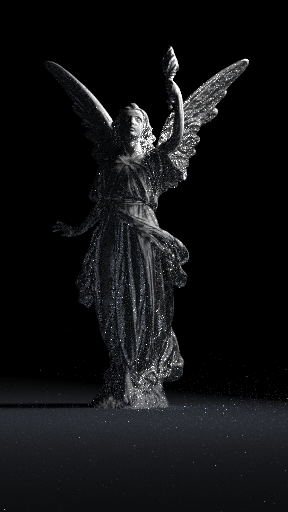
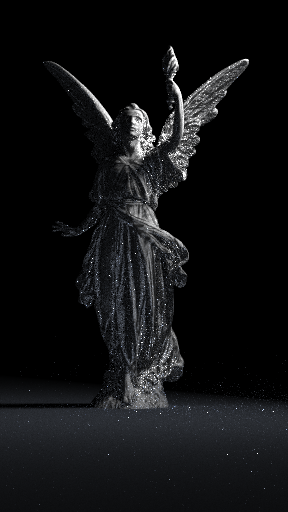
Fixes

diff --git a/core/src/randomizers/randomize.h b/core/src/randomizers/randomize.h
@@ -22,23 +22,47 @@ const std::string DefaultRNGSeed = "ASDF";
  *
  * Use the class `RandomGenerator` instead.
  */
+
+
+
 template<template<class> class Distributor, class Type, class RNG>
-class generalizedRandomGenerator
-{
+class generalizedRandomGenerator {
 private:
+
     const std::string m_randomStringChars = "0123456789abcdefghijklmnopqrstuvwxyzABCDEFGHIJKLMNOPQRSTUVWXYZ";
 
-    // Data
+
     Distributor<Type> m_rng_distribution;
     std::seed_seq m_seed;
     RNG m_rng;
 
 public:
-    explicit generalizedRandomGenerator(const std::string &rng_seed, int type) noexcept :
-        m_rng_distribution(0, 1),
+    explicit generalizedRandomGenerator(const std::string& rng_seed, Type dist_min = 0, Type dist_max = 1) noexcept :
+        m_rng_distribution(dist_min, dist_max),
         m_seed(rng_seed.begin(), rng_seed.end()),
         m_rng(m_seed)
     { }
+
+
+
+
+//template<template<class> class Distributor, class Type, class RNG>
+//class generalizedRandomGenerator
+//{
+//private:
+//    const std::string m_randomStringChars = "0123456789abcdefghijklmnopqrstuvwxyzABCDEFGHIJKLMNOPQRSTUVWXYZ";
+//
+//    // Data
+//    Distributor<Type> m_rng_distribution;
+//    std::seed_seq m_seed;
+//    RNG m_rng;
+//
+//public:
+//    explicit generalizedRandomGenerator(const std::string &rng_seed, int type) noexcept :
+//        m_rng_distribution(0, 1),
+//        m_seed(rng_seed.begin(), rng_seed.end()),
+//        m_rng(m_seed)
+//    { }
 
     inline Type get_real() noexcept
     {
@@ -212,28 +236,63 @@ public:
 /*!
  * The random generator that should actually be used by the app in general places.
  */
-class randomizer final : public generalizedRandomGenerator<RNG_DISTRIBUTION, double, RNG_ENGINE>
+//class randomizer final : public generalizedRandomGenerator<RNG_DISTRIBUTION, double, RNG_ENGINE>
+//{
+//public:
+//    explicit randomizer(int type) : generalizedRandomGenerator(DefaultRNGSeed, type)
+//    {
+//        if (type == 0)
+//        {
+//            // use RNG_ENGINE std::mt19937
+//        }
+//        else if (type == 1)
+//        {
+//            // use RNG_ENGINE std::minstd_rand
+//        }
+//        else
+//        {
+//            // use RNG_ENGINE pcg32
+//        }
+//    }
+//
+//    explicit randomizer(const std::string& rng_seed, int type) : generalizedRandomGenerator(rng_seed, type)
+//    {
+//    }
+//
+//
+//};
+
+
+class randomizer : public generalizedRandomGenerator<std::uniform_real_distribution, double, std::mt19937>
 {
 public:
-    explicit randomizer(int type) : generalizedRandomGenerator(DefaultRNGSeed, type)
+    explicit randomizer(int type, const std::string& rng_seed = DefaultRNGSeed, double dist_min = 0, double dist_max = 1) :
+        generalizedRandomGenerator<std::uniform_real_distribution, double, std::mt19937>(rng_seed, dist_min, dist_max)
     {
-        if (type == 0)
+
+        switch (type)
         {
-            // use RNG_ENGINE std::mt19937
-        }
-        else if (type == 1)
-        {
-            // use RNG_ENGINE std::minstd_rand
-        }
-        else
-        {
-            // use RNG_ENGINE pcg32
+            case 1:
+                new (this) generalizedRandomGenerator<std::uniform_real_distribution, double, std::mt19937>(rng_seed, dist_min, dist_max);
+                break;
+            case 2:
+                new (this) generalizedRandomGenerator<std::uniform_real_distribution, double, std::minstd_rand>(rng_seed, dist_min, dist_max);
+                break;
+            case 3:
+                new (this) generalizedRandomGenerator<std::uniform_real_distribution, double, pcg32>(rng_seed, dist_min, dist_max);
+                break;
+            default:
+                new (this) generalizedRandomGenerator<std::uniform_real_distribution, double, std::mt19937>(rng_seed, dist_min, dist_max);
+                break;
         }
     }
 
-    explicit randomizer(const std::string& rng_seed, int type) : generalizedRandomGenerator(rng_seed, type)
-    {
-    }
+    //double get_real() noexcept {
+    //    return generalizedRandomGenerator<std::uniform_real_distribution, double, RNG_ENGINE_1>::get_real();
+    //}
 
-
+    //double get_real(double min, double max) noexcept {
+    //    return generalizedRandomGenerator<std::uniform_real_distribution, double, RNG_ENGINE_1>::get_real(min, max);
+    //}
 };
+

diff --git a/core/src/main.cpp b/core/src/main.cpp
@@ -99,7 +99,12 @@ int main(int argc, char* argv[])
 
     //std::shared_ptr<randomizer> rnd = get_randomizer(params.randomizer_type);
 
-    randomizer rnd(DefaultRNGSeed, params.randomizer_type);
+    //randomizer rnd(DefaultRNGSeed, params.randomizer_type);
+
+
+    //randomizer<std::uniform_real_distribution, double, std::mt19937> rnd("MySeed", 0.0, 1.0);
+
+    randomizer rnd(params.randomizer_type, "MySeed");
 
 
     // Create world

diff --git a/core/src/textures/perlin.cpp b/core/src/textures/perlin.cpp
@@ -8,9 +8,11 @@ perlin::perlin()
 {
     ranvec = new vector3[point_count];
 
-    randomizer rnd(DefaultRNGSeed, 0);
+    //randomizer rnd(DefaultRNGSeed, 0);
 
     //std::shared_ptr<randomizer> rnd = std::make_shared<pcg_randomizer>();
+
+    randomizer rnd(1, "MySeed");
 
     for (int i = 0; i < point_count; ++i)
     {
